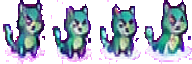
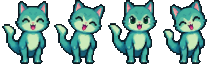
C14 P6: crisp merkitty sing strips

diff --git a/tools/slice_c14_art.py b/tools/slice_c14_art.py
@@ -364,6 +364,39 @@ def swim_jobs(check, man):
     return made
 
 
+# Merkitty sing strips (c14_17-14: upscaled mush): 3 rows x 4 frames, scaled to the old sing height.
+SING_SHEET = ("merkitty_sing.png", ["merkitty_a", "merkitty_b", "merkitty_c"])
+
+
+def sing_jobs(check, man):
+    made = []
+    src = os.path.join(INC, SING_SHEET[0])
+    if not os.path.exists(src):
+        return made
+    a = load(src)
+    for (y0, y1), cid in zip(row_bands(a, 3), SING_SHEET[1]):
+        grp = "characters/" + cid
+        if done(man, grp, "sing"):
+            continue
+        ps = cells12(a[y0:y1], 4)
+        old = Image.open(os.path.join(GEN, man[grp]["idle"]["file"])).convert("RGBA")
+        ih = int((np.array(old)[..., 3] > 40).any(axis=1).sum())
+        s = ih / float(np.median([p.shape[0] for p in ps]))
+        fr = [shrink(p, (max(1, round(p.shape[1] * s)), max(1, round(p.shape[0] * s)))) for p in ps]
+        ch = max(int(man[grp]["sing"].get("cell_h", 64)), max(f.height for f in fr))
+        cw = max(f.width for f in fr) + 2
+        im = strip(fr, cw, ch)
+        rel = grp + "/sing.png"
+        if not check:
+            dst = os.path.join(GEN, rel)
+            if os.path.exists(dst):
+                os.remove(dst)
+            im.save(dst)
+            man[grp]["sing"] = {"file": rel, "w": im.width, "h": im.height, "frames": 4, "cell_w": cw, "cell_h": ch, "c14p6": True}
+        made.append("%s sing x4 %dx%d" % (grp, cw, ch))
+    return made
+
+
 FORCE = "--force" in sys.argv
 
 
@@ -398,6 +431,7 @@ def main():
     made += redraw_jobs(check, man)
     made += kit_jobs(check, man)
     made += swim_jobs(check, man)
+    made += sing_jobs(check, man)
     if not check:
         with open(MAN, "w") as f:
             json.dump(man, f, indent=1, sort_keys=True)
